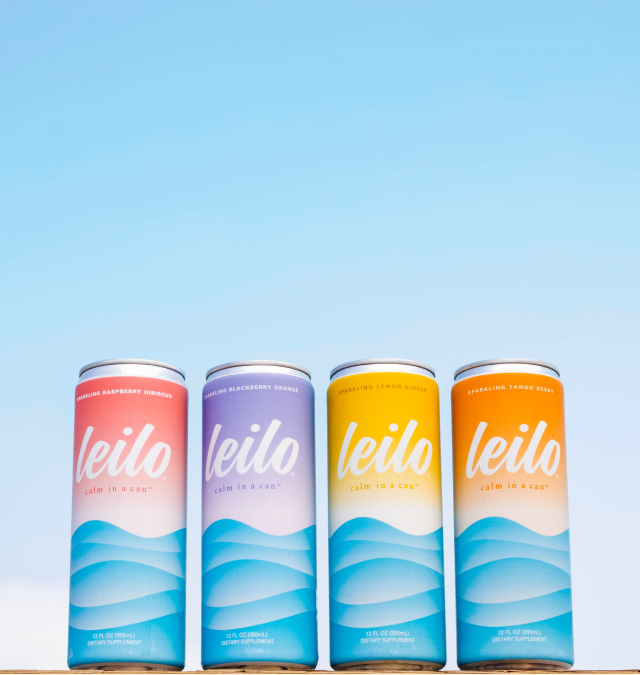
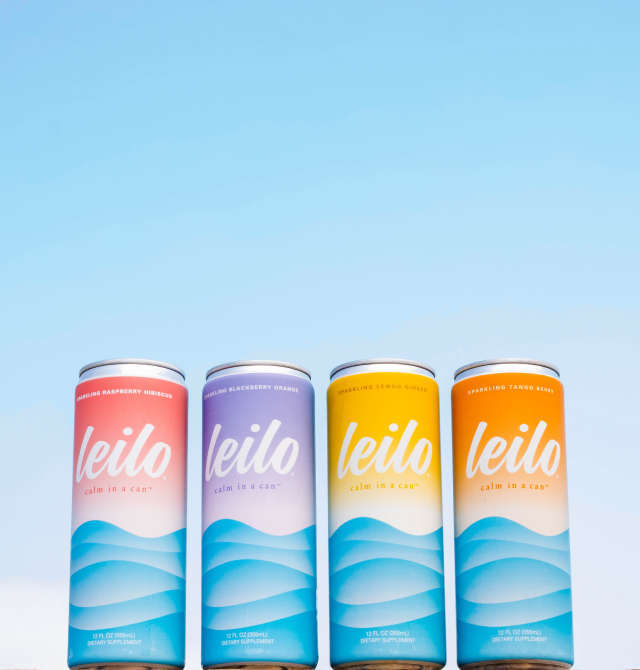
Fix header background image
Crop the header background image so the brown boarder in the bottom doesn't show

Changed region(s): [[0.0, 0.6269, 1.0, 1.0], [0.125, 0.5075, 0.875, 0.597]]

diff --git a/index.html b/index.html
@@ -139,7 +139,7 @@
                     <p class="reviews-text" >100 reviews</p>
                 </div>
 
-            <p class="mb-4">
+            <p class="mb-4 px-2">
                 our four classic flavors, all in one pack!
                 raspberry hibiscus, lemon ginger, 
                 blackberry orange, and tango berry
